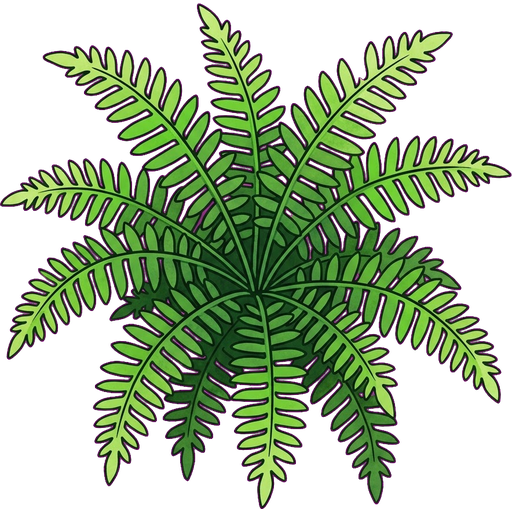
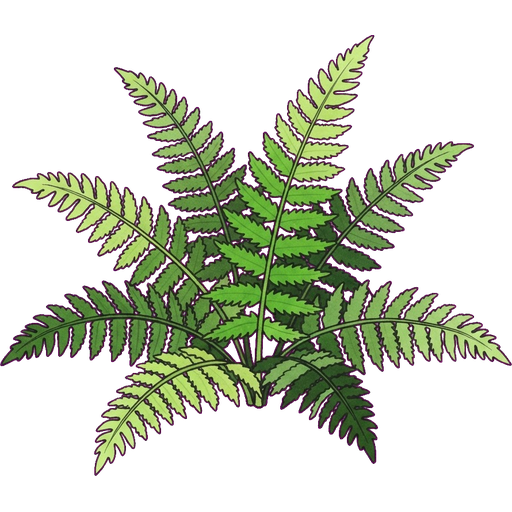
Sticker: regenerate 9 ferns with new prompt template (moderately detailed watercolor, 2-3px outline, simplified shape)

diff --git a/tools/sticker-generate-one.py b/tools/sticker-generate-one.py
@@ -33,35 +33,35 @@ IMAGE_WAIT  = 240
 os.makedirs(OUT_DIR, exist_ok=True)
 
 # -- Prompt templates (SOURCE OF TRUTH: research/STICKER-PROMPT-GUIDE.md) ---------------------
-# Do not modify without updating STICKER-PROMPT-GUIDE.md first. Last synced: 2026-07-21
+# Do not modify without updating STICKER-PROMPT-GUIDE.md first. Last synced: 2026-07-22
 TEMPLATES = {
     "plant": (
-        "Aerial side view. Art style: watercolor painting or Plants vs. Zombies - "
+        "Aerial side view. Art style: moderately detailed watercolor painting - "
         "tasteful simplified representation of this plant with crisp edges, focusing on "
         "a primary characteristics of the plant, bold flat icon. "
-        "Dark outline ~3px. No shadows. Centered, 75% canvas fill. Vibrant and iconic."
+        "Dark outline 2-3px max. No shadows. Centered, 75% canvas fill. Vibrant and iconic."
     ),
     "cedar": (
-        "Aerial side view. Art style: watercolor painting or Plants vs. Zombies - tasteful simplified representation of this plant with crisp edges, "
-        "focusing on a primary characteristics of the plant, no trunk, bold flat icon. Dark outline ~3px. No shadows. "
+        "Aerial side view. Art style: moderately detailed watercolor painting - tasteful simplified representation of this plant with crisp edges, "
+        "focusing on a primary characteristics of the plant, no trunk, bold flat icon. Dark outline 2-3px max. No shadows. "
         "Centered, 75% canvas fill. Vibrant and iconic."
     ),
     "deciduous": (
-        "Side aerial view. Art style: watercolor painting or Plants vs. Zombies - "
+        "Side aerial view. Art style: moderately detailed watercolor painting - "
         "tasteful simplified representation of this plant with crisp edges, focusing on "
         "primary characteristics of the plant, leafy canopy only, NO TRUNK, NO STEM, NO BARK VISIBLE. "
-        "Dark outline ~3px. No shadows. Centered, 75% canvas fill. Vibrant and iconic."
+        "Dark outline 2-3px max. No shadows. Centered, 75% canvas fill. Vibrant and iconic."
     ),
     "pine": (
-        "Aerial side view. Art style: watercolor painting or Plants vs. Zombies - "
+        "Aerial side view. Art style: moderately detailed watercolor painting - "
         "tasteful simplified representation of this plant with crisp edges, focusing on "
-        "a primary characteristics of the plant, no trunk, bold flat icon. Dark outline ~3px. "
+        "a primary characteristics of the plant, no trunk, bold flat icon. Dark outline 2-3px max. "
         "No shadows. Centered, 75% canvas fill. Vibrant and iconic."
     ),
     "rootveg": (
-        "Side aerial view. Art style: watercolor painting or Plants vs. Zombies - "
+        "Side aerial view. Art style: moderately detailed watercolor painting - "
         "tasteful simplified representation of this plant with crisp edges, focusing on "
-        "a primary characteristics of the plant, bold flat icon. Dark outline ~3px. "
+        "a primary characteristics of the plant, bold flat icon. Dark outline 2-3px max. "
         "Line texturing. No shadows. Centered, 75% canvas fill. Vibrant and iconic."
     ),
 }
@@ -523,15 +523,15 @@ def main():
             f"{prefix}\n\n"
             f"Subject: {plant_name}, No trunk.\n"
             f"Canvas: {size_px}px square.\n"
-            f"Colours: {colours}, flat solid magenta background (#FF00FF)\n"
-            f"Shape: Natural leafy canopy. {shape}"
+            f"Suggested Colours: {colours}, flat solid magenta background (#FF00FF)\n"
+            f"Shape: Natural full leafy canopy, distinctive lobed leaf shapes visible. No trunk. No branches. Canopy fills the frame. Spring/summer only. No fall colours."
         )
     elif template == "rootveg":
         prompt = (
             f"{prefix}\n\n"
             f"Subject: {plant_name}, vegetable.\n"
             f"Canvas: {size_px}px square.\n"
-            f"Colours: {colours}, flat solid magenta background (#FF00FF)\n"
+            f"Suggested Colours: {colours}, flat solid magenta background (#FF00FF)\n"
             f"Shape: {shape} Natural proportions."
         )
     elif template == "cedar":
@@ -539,7 +539,7 @@ def main():
             f"{prefix}\n\n"
             f"Subject: Cedar Thuja Conical Tree, no trunk.\n"
             f"Canvas: {size_px}px square.\n"
-            f"Colours: {colours}, flat solid magenta background (#FF00FF)\n"
+            f"Suggested Colours: {colours}, flat solid magenta background (#FF00FF)\n"
             f"Shape: Correct proportions."
         )
     elif template == "pine":
@@ -547,7 +547,7 @@ def main():
             f"{prefix}\n\n"
             f"Subject: {plant_name}, no trunk.\n"
             f"Canvas: {size_px}px square.\n"
-            f"Colours: {colours}, flat solid magenta background (#FF00FF)\n"
+            f"Suggested Colours: {colours}, flat solid magenta background (#FF00FF)\n"
             f"Shape: Correct proportions."
         )
     else:
@@ -555,8 +555,8 @@ def main():
             f"{prefix}\n\n"
             f"Subject: {plant_name}.\n"
             f"Canvas: {size_px}px square.\n"
-            f"Colours: {colours}, flat solid magenta background (#FF00FF)\n"
-            f"Shape: {shape} Only a few leaves and flowers, small plant. Correct proportions."
+            f"Suggested Colours: {colours}, flat solid magenta background (#FF00FF)\n"
+            f"Shape: Correct proportions. No roots."
         )
 
     # ── Ensure Gemini is open ────────────────────────────────

diff --git a/research/STICKER-PROMPT-GUIDE.md b/research/STICKER-PROMPT-GUIDE.md
@@ -1,5 +1,5 @@
 # Garden Mapper — Sticker Prompt Guide
-_Last updated: 2026-07-21 — Rob's master edition_
+_Last updated: 2026-07-22 — Rob's master edition_
 
 ---
 
@@ -12,25 +12,25 @@ Use the correct template for the plant type. Rob's wording is intentional — do
 ### Pines
 
 ```
-Aerial side view. Art style: watercolor painting or Plants vs. Zombies — tasteful simplified representation of this plant with crisp edges, focusing on a primary characteristics of the plant, no trunk, bold flat icon. Dark outline ~3px. No shadows. Centered, 75% canvas fill. Vibrant and iconic.
+Aerial side view. Art style: moderately detailed watercolor painting — tasteful simplified representation of this plant with crisp edges, focusing on a primary characteristics of the plant, no trunk, bold flat icon. Dark outline 2–3px max. No shadows. Centered, 75% canvas fill. Vibrant and iconic.
 
 Subject: [PLANT NAME], stubby [TYPE OF PLANT], no trunk.
 Canvas: [SIZE]px square.
-Colours: [4-5 colours or hex codes], flat solid magenta background (#FF00FF)
-Shape: Correct proportions.
+Suggested Colours: [4-5 colours or hex codes], flat solid magenta background (#FF00FF)
+Shape: Correct proportions. No roots.
 ```
 
 ---
 
-### Plants (herbs, flowers, shrubs, perennials)
+### Plants (herbs, flowers, shrubs, perennials, ferns, groundcovers)
 
 ```
-Aerial side view. Art style: watercolor painting or Plants vs. Zombies — tasteful simplified representation of this plant with crisp edges, focusing on a primary characteristics of the plant, bold flat icon. Dark outline ~3px. No shadows. Centered, 75% canvas fill. Vibrant and iconic.
+Aerial side view. Art style: moderately detailed watercolor painting — tasteful simplified representation of this plant with crisp edges, focusing on a primary characteristics of the plant, bold flat icon. Dark outline 2–3px max. No shadows. Centered, 75% canvas fill. Vibrant and iconic.
 
 Subject: [PLANT NAME], [TYPE OF PLANT].
 Canvas: [SIZE]px square.
-Colours: [4-5 colours or hex codes], flat solid magenta background (#FF00FF)
-Shape: [Primary characteristics], stems at bottom and leafy florals at the top. Only a few leaves and flowers, small plant. Correct proportions.
+Suggested Colours: [4-5 colours or hex codes], flat solid magenta background (#FF00FF)
+Shape: Correct proportions. No roots.
 ```
 
 ---
@@ -38,11 +38,11 @@ Shape: [Primary characteristics], stems at bottom and leafy florals at the top. 
 ### Root Vegetables
 
 ```
-Side aerial view. Art style: watercolor painting or Plants vs. Zombies — tasteful simplified representation of this plant with crisp edges, focusing on a primary characteristics of the plant, bold flat icon. Dark outline ~3px. Line texturing. No shadows. Centered, 75% canvas fill. Vibrant and iconic.
+Side aerial view. Art style: moderately detailed watercolor painting — tasteful simplified representation of this plant with crisp edges, focusing on a primary characteristics of the plant, bold flat icon. Dark outline 2–3px max. Line texturing. No shadows. Centered, 75% canvas fill. Vibrant and iconic.
 
 Subject: [PLANT NAME], [TYPE OF PLANT].
 Canvas: [SIZE]px square.
-Colours: [4-5 colours or hex codes], flat solid magenta background (#FF00FF)
+Suggested Colours: [4-5 colours or hex codes], flat solid magenta background (#FF00FF)
 Shape: [PLANT NAME] and tops peeking from a plant wide soil line. Only show the top of the root/plant above the minimal soil line. [Basic plant description] shoulders visible above the soil, root at bottom and leafy tops. Natural proportions. Root crown only — do NOT show the full root extracted from soil or hanging in the air.
 ```
 
@@ -51,11 +51,11 @@ Shape: [PLANT NAME] and tops peeking from a plant wide soil line. Only show the 
 ### Deciduous Trees
 
 ```
-Side aerial view. Art style: watercolor painting or Plants vs. Zombies — tasteful simplified representation of this plant with crisp edges, focusing on primary characteristics of the plant, leafy canopy only, NO TRUNK, NO STEM, NO BARK VISIBLE. Dark outline ~3px. No shadows. Centered, 75% canvas fill. Vibrant and iconic.
+Side aerial view. Art style: moderately detailed watercolor painting — tasteful simplified representation of this plant with crisp edges, focusing on primary characteristics of the plant, leafy canopy only, NO TRUNK, NO STEM, NO BARK VISIBLE. Dark outline 2–3px max. No shadows. Centered, 75% canvas fill. Vibrant and iconic.
 
 Subject: [PLANT NAME], large broad deciduous tree. NO TRUNK. Canopy only. Small leaves.
 Canvas: [SIZE]px square.
-Colours: [4-5 colours or hex codes], flat solid magenta background (#FF00FF)
+Suggested Colours: [4-5 colours or hex codes], flat solid magenta background (#FF00FF)
 Shape: Natural full leafy canopy, distinctive lobed leaf shapes visible. No trunk. No branches. Canopy fills the frame. Spring/summer only. No fall colours.
 ```
 
